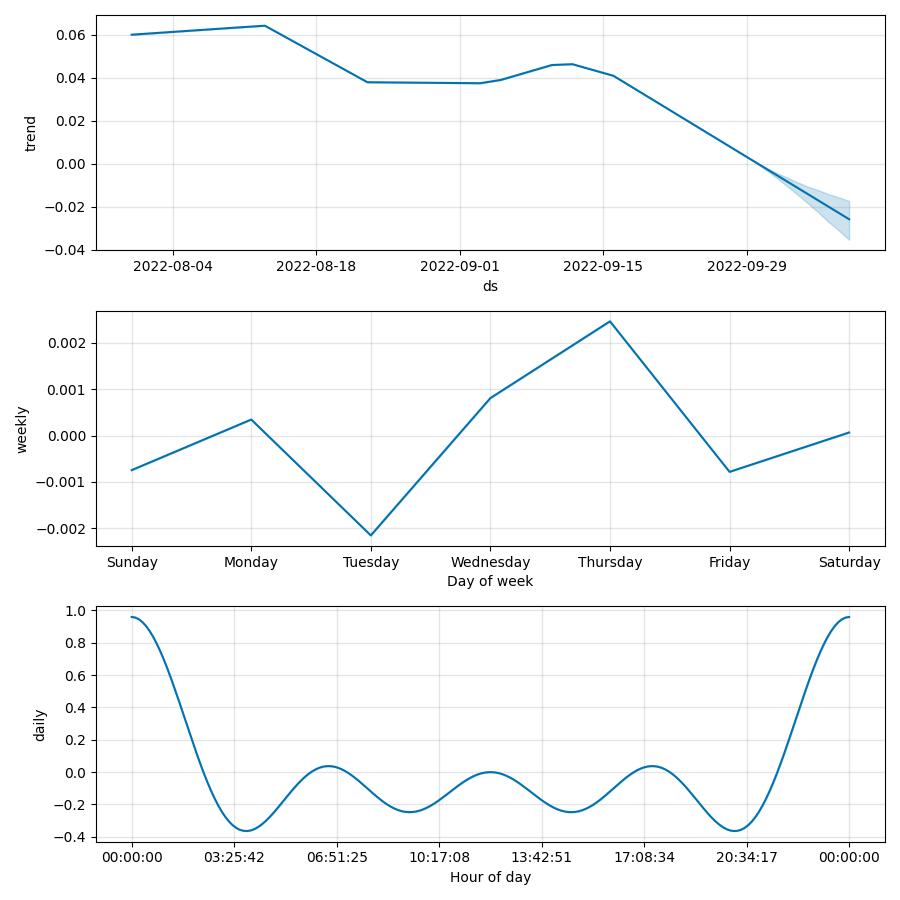
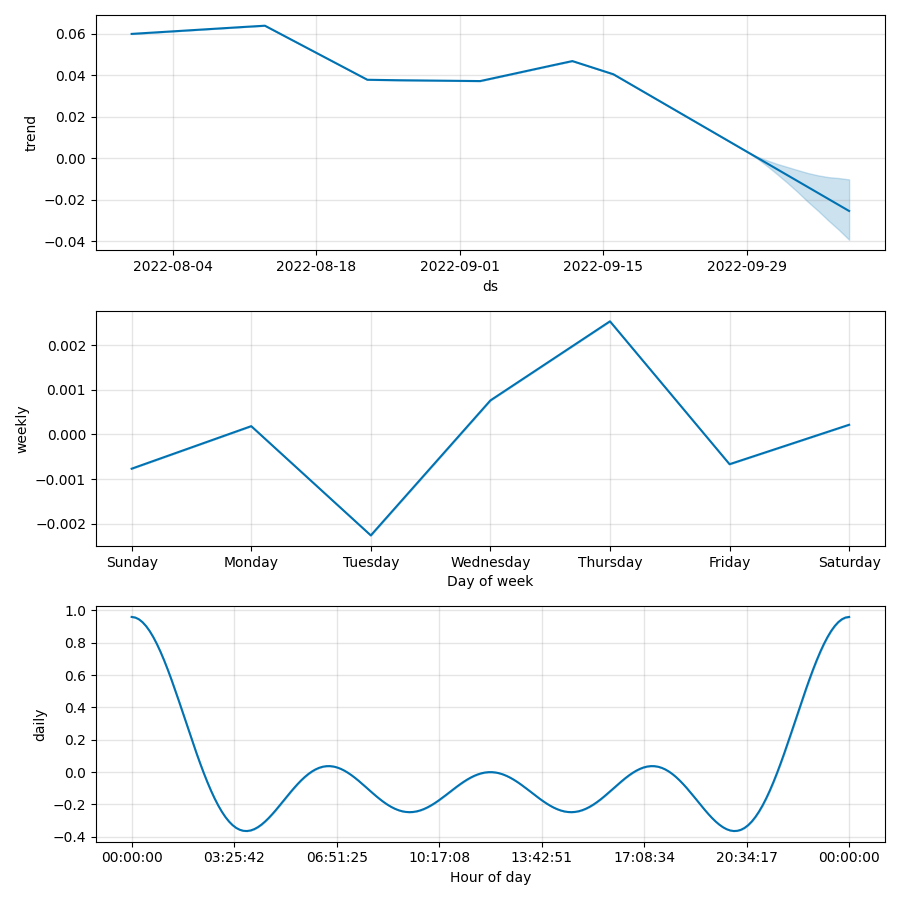
forecast data viz

diff --git a/forecast.py b/forecast.py
@@ -1,4 +1,3 @@
-import pandas
 import matplotlib.pyplot as plt
 from prophet import Prophet
 
@@ -10,7 +9,7 @@ data.columns = ['ds', 'y']
 
 # input to Prophet is always a pandas.dataframe with two columns: ds and y. 
 # The ds (datestamp) column should be of a format expected by Pandas, ideally YYYY-MM-DD for a date
-def forecast(df, ci, period):
+def forecast(df, period, ci = 0.95):
     data = df
 
     #train model (5% confidence interval)
@@ -48,7 +47,7 @@ def forecast(df, ci, period):
     return forecast
 
 
-forecast_df = forecast(data, 0.8, 10)
+forecast_df = forecast(data, 10, 0.8)
 
 
 

diff --git a/README.md b/README.md
@@ -212,12 +212,19 @@ The time-series data I am working with is univariate: the exchange rate is the o
 
 ### Prophet: predicting time-series data using machine learning
 
-[Facebook Prophet](https://facebook.github.io/prophet/) is an open-source algorithm for generating univariate time-series models. As explained in their Github [Page](https://github.com/facebook/prophet), "is a procedure for forecasting time series data based on an additive model where non-linear trends are fit with yearly, weekly, and daily seasonality, plus holiday effects." Moreover, "it works best with time series that have strong seasonal effects and several seasons of historical data." The documentation claims that "Prophet is robust to missing data and shifts in the trend, and typically handles outliers well."  At its core is the sum of three functions of time plus an error term: growth g(t), seasonality s(t), holidays h(t) , and error e~t~ :
+[Facebook Prophet](https://facebook.github.io/prophet/) is an open-source algorithm for generating univariate time-series models. As explained in their Github [Page](https://github.com/facebook/prophet), "is a procedure for forecasting time series data based on an additive model where non-linear trends are fit with yearly, weekly, and daily seasonality, plus holiday effects." Moreover, "it works best with time series that have strong seasonal effects and several seasons of historical data." The documentation claims that "Prophet is robust to missing data and shifts in the trend, and typically handles outliers well."  At its core is the sum of three functions of time plus an error term: growth g(t), seasonality s(t), holidays h(t) , and error e_t :
 - $$y(t) = g(t) + s(t) + h(t) + e_t$$
 
 <p>
-Having introduced the model, let us jump right into its implementation
+Having introduced the model, let us jump right into its implementation. The <code>forecast(df, ci, period)</code> function receives 3 arguments:
+
+- <code>df</code>: pandas dataframe that contains two columns: exchange rates, and the dates over which they are measured (in datetime format)
+    - the <code>get_rates()<code> function detailed earlier allows to get this dataframe over any number of days (less than a year)
+- <code>period</code>: number of days in the future for which exchange rates should be forecast
+- <code>ci</code> (optional): confidence interval for the forecast (displayed on the graph as the blue area)
+    - default value: 0.95 (95%)
 </p>
+
 
 
 
